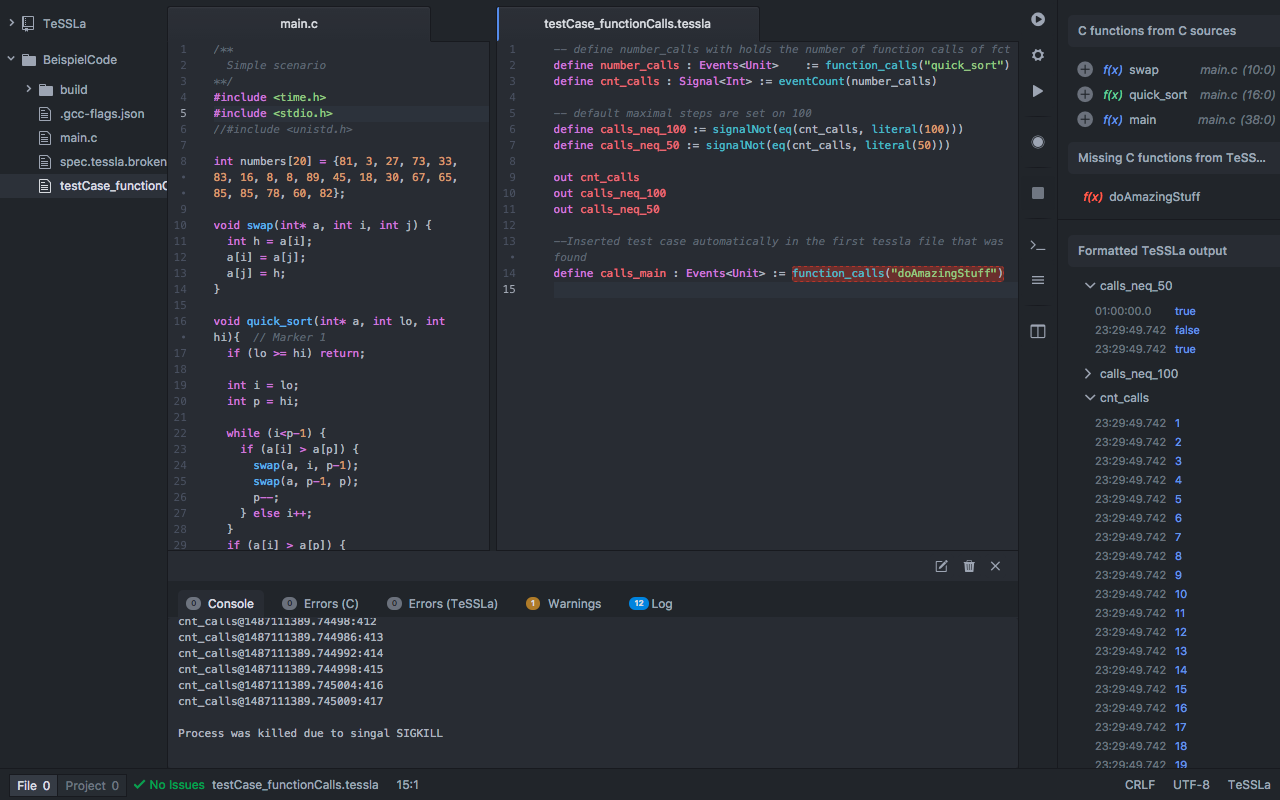
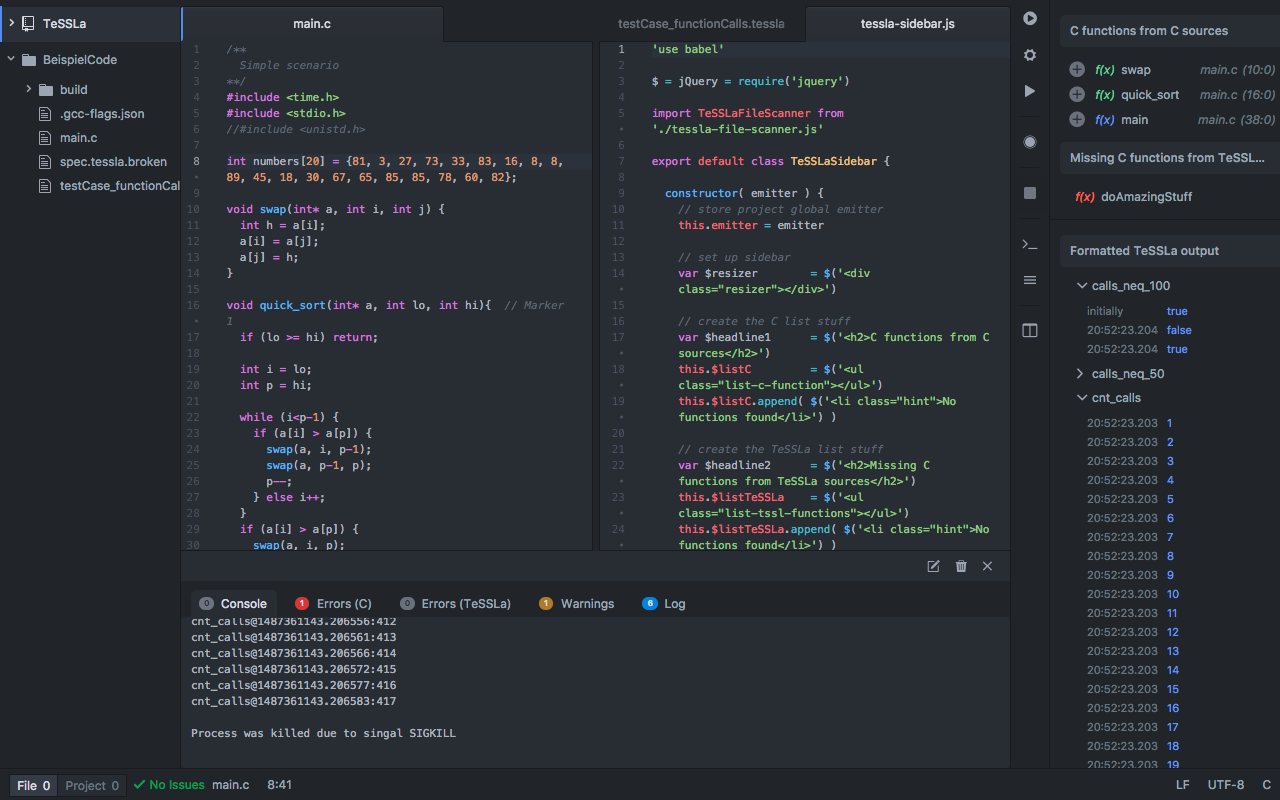
Added new screenshots

diff --git a/lib/tessla-sidebar.js b/lib/tessla-sidebar.js
@@ -490,7 +490,7 @@ export default class TeSSLaSidebar {
 
           // change value of initial responses
           if (parseFloat(match[2]) == 0) {
-            dateString = 'init'
+            dateString = 'initially'
           } else {
             // format timestamp
             var date    = new Date(parseFloat(match[2]) * 1000)
